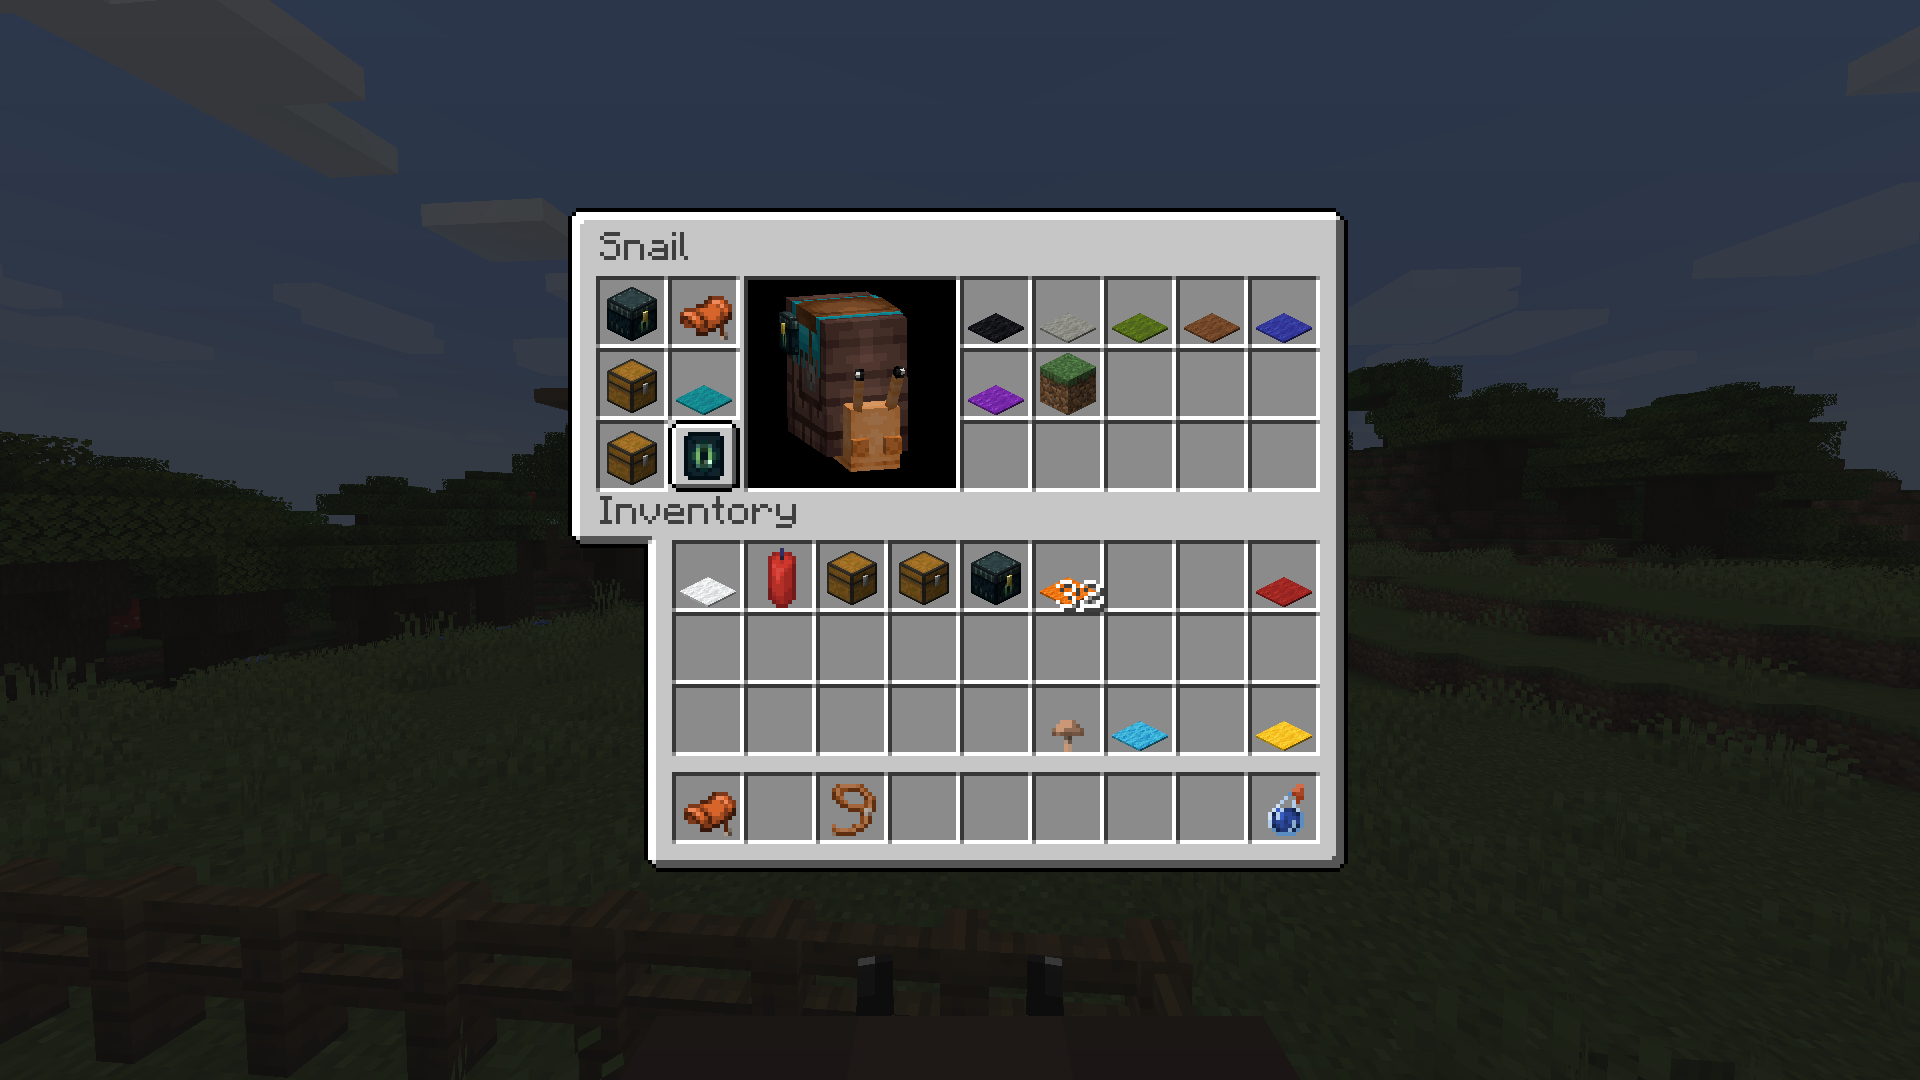
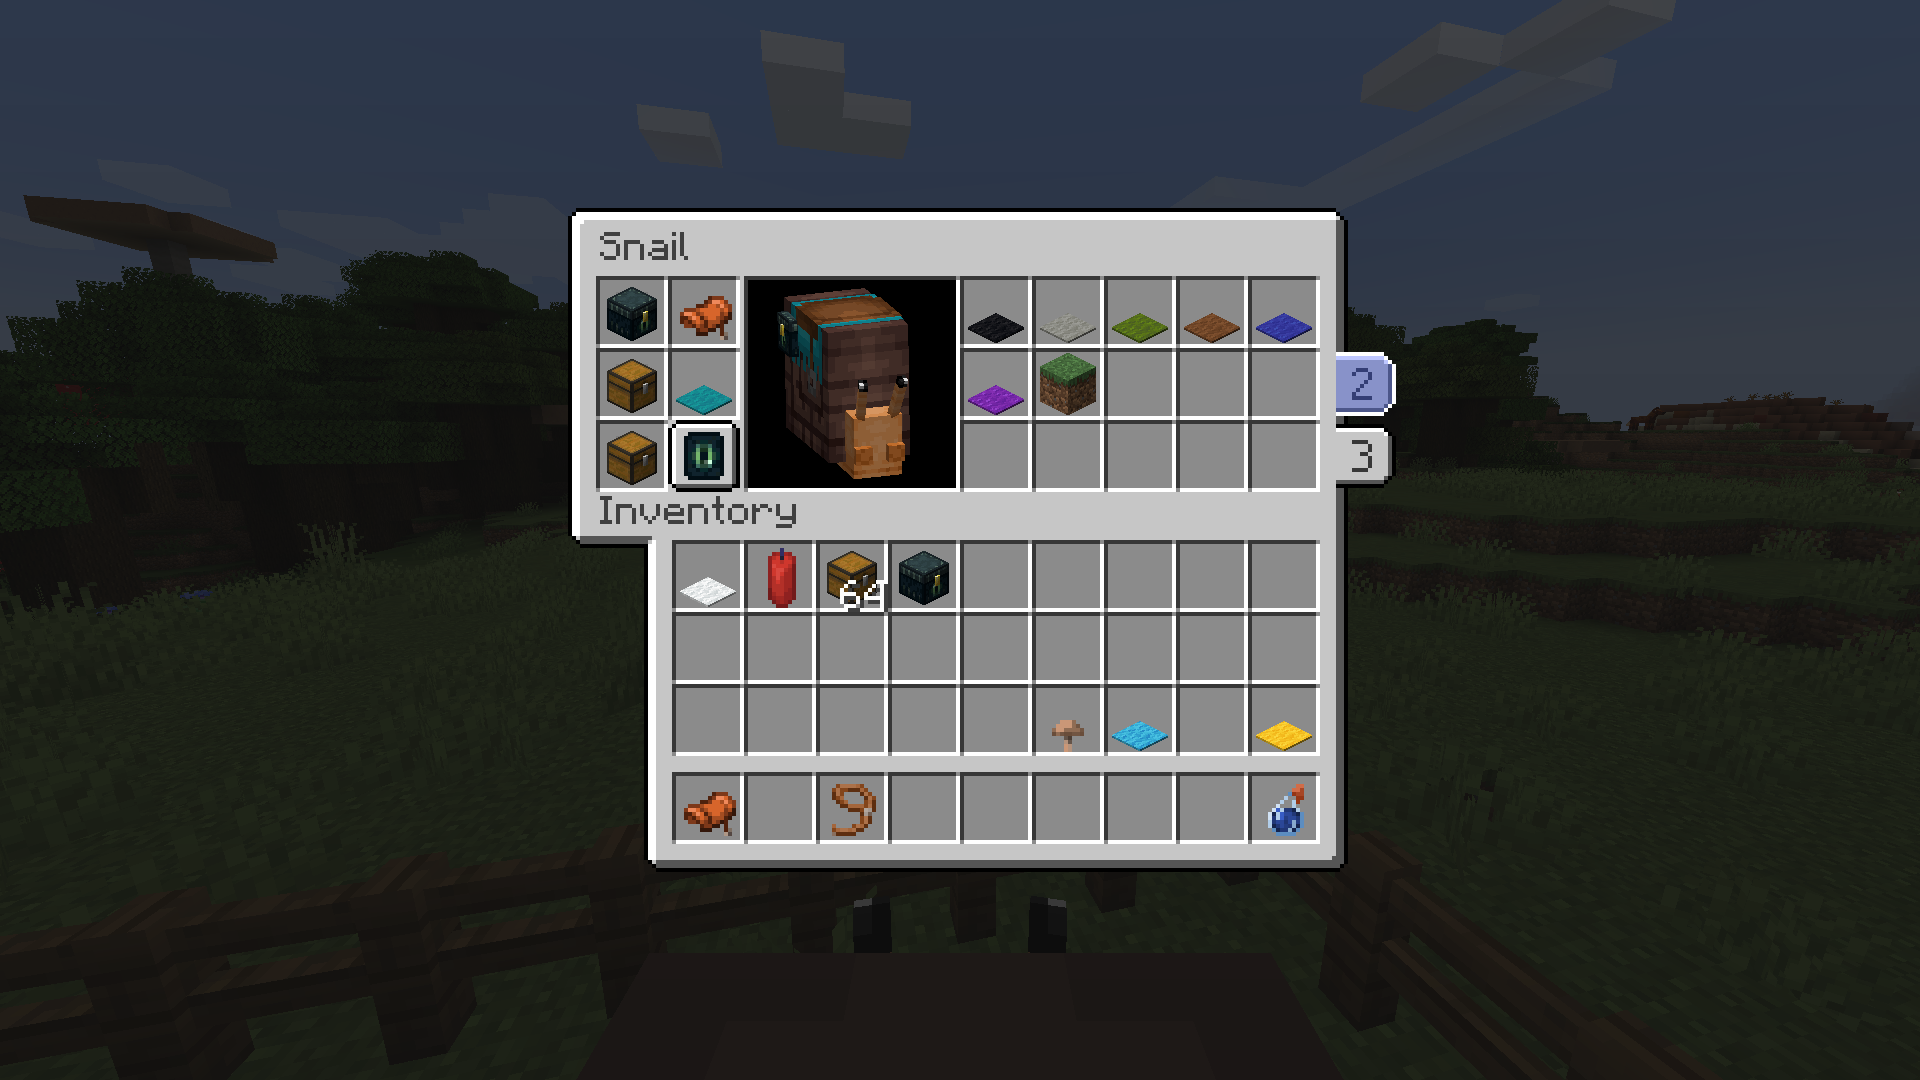
Fix snail collision box and improve inventory accessibility.

diff --git a/src/main/java/dev/lambdaurora/lovely_snails/client/screen/SnailInventoryScreen.java b/src/main/java/dev/lambdaurora/lovely_snails/client/screen/SnailInventoryScreen.java
@@ -43,7 +43,7 @@ import net.minecraft.util.math.MathHelper;
  * Represents the snail inventory screen.
  *
  * @author LambdAurora
- * @version 1.0.0
+ * @version 1.0.3
  * @since 1.0.0
  */
 @Environment(EnvType.CLIENT)
@@ -53,6 +53,7 @@ public class SnailInventoryScreen extends HandledScreen<SnailScreenHandler> {
     private float mouseX;
     private float mouseY;
     private EnderChestButton enderChestButton;
+    private PageButton[] pageButtons = new PageButton[3];
 
     public SnailInventoryScreen(SnailScreenHandler handler, PlayerInventory inventory, Text title) {
         super(handler, inventory, handler.snail().getDisplayName());
@@ -60,34 +61,51 @@ public class SnailInventoryScreen extends HandledScreen<SnailScreenHandler> {
         this.entity = handler.snail();
     }
 
-    private void clearEnderChestListener() {
+    private void clearListeners() {
         if (this.enderChestButton != null) {
             this.getScreenHandler().getInventory().removeListener(this.enderChestButton);
         }
         this.enderChestButton = null;
+
+        for (int page = 0; page < 3; page++) {
+            if (this.pageButtons[page] != null) {
+                this.getScreenHandler().getInventory().removeListener(this.pageButtons[page]);
+                this.getScreenHandler().removePageChangeListener(this.pageButtons[page]);
+            }
+
+            this.pageButtons[page] = null;
+        }
     }
 
     @Override
     protected void init() {
         super.init();
-        this.clearEnderChestListener();
+        this.clearListeners();
 
         int x = (this.width - this.backgroundWidth) / 2;
         int y = (this.height - this.backgroundHeight) / 2;
         this.addDrawableChild(this.enderChestButton = new EnderChestButton(x + 7 + 18, y + 35 + 18));
         this.getScreenHandler().getInventory().addListener(this.enderChestButton);
+
+        int buttonX = x + this.backgroundWidth - 3;
+        int buttonY = y + 17;
+        for (int page = 0; page < 3; page++) {
+            this.addDrawableChild(this.pageButtons[page] = new PageButton(buttonX, buttonY, page));
+            this.getScreenHandler().getInventory().addListener(this.pageButtons[page]);
+            this.getScreenHandler().addPageChangeListener(this.pageButtons[page]);
+        }
     }
 
     @Override
     public void removed() {
         super.removed();
-        this.clearEnderChestListener();
+        this.clearListeners();
     }
 
     @Override
     public void onClose() {
         super.onClose();
-        this.clearEnderChestListener();
+        this.clearListeners();
     }
 
     /* Input */
@@ -178,6 +196,33 @@ public class SnailInventoryScreen extends HandledScreen<SnailScreenHandler> {
         @Override
         public void onInventoryChanged(Inventory sender) {
             this.visible = this.active = SnailInventoryScreen.this.getScreenHandler().hasEnderChest();
+        }
+    }
+
+    private class PageButton extends TexturedButtonWidget implements InventoryChangedListener, SnailScreenHandler.InventoryPageChangeListener {
+        private final int page;
+
+        public PageButton(int x, int y, int page) {
+            super(x, y + page * 18 + 1, 15, 16, 211 + page * 15, 0, 16, TEXTURE,
+                    256, 256,
+                    btn -> {
+                        SnailInventoryScreen.this.getScreenHandler().requestStoragePage(page);
+                    });
+            this.page = page;
+
+            this.visible = SnailInventoryScreen.this.getScreenHandler().hasChest(this.page);
+            this.onCurrentPageSet(SnailInventoryScreen.this.getScreenHandler().getCurrentStoragePage());
+        }
+
+        @Override
+        public void onInventoryChanged(Inventory sender) {
+            this.visible = SnailInventoryScreen.this.getScreenHandler().hasChest(page);
+        }
+
+        @Override
+        public void onCurrentPageSet(int page) {
+            this.active = this.page != page;
+            this.setFocused(this.page == page);
         }
     }
 }

diff --git a/src/main/java/dev/lambdaurora/lovely_snails/entity/SnailEntity.java b/src/main/java/dev/lambdaurora/lovely_snails/entity/SnailEntity.java
@@ -70,6 +70,7 @@ import net.minecraft.util.Arm;
 import net.minecraft.util.DyeColor;
 import net.minecraft.util.Hand;
 import net.minecraft.util.math.BlockPos;
+import net.minecraft.util.math.Box;
 import net.minecraft.util.math.Direction;
 import net.minecraft.util.math.Vec3d;
 import net.minecraft.world.*;
@@ -83,7 +84,7 @@ import java.util.function.Predicate;
  * Represents the snail entity.
  *
  * @author LambdAurora
- * @version 1.0.0
+ * @version 1.0.3
  * @since 1.0.0
  */
 public class SnailEntity extends TameableEntity implements InventoryChangedListener, Saddleable {
@@ -192,8 +193,27 @@ public class SnailEntity extends TameableEntity implements InventoryChangedListe
      * @param baseSatisfaction the base satisfaction amount
      */
     public void satisfies(int baseSatisfaction) {
-        this.setSatisfaction(this.getSatisfaction() + baseSatisfaction + this.random.nextInt(10));
-        this.putInteractionOnCooldown();
+        if (this.isBaby()) {
+            this.putInteractionOnCooldown();
+            int newSatisfaction = this.getSatisfaction() + baseSatisfaction + this.random.nextInt(10);
+
+            if (newSatisfaction >= 0) {
+                var adultDimensions = this.getType().getDimensions();
+                float width = adultDimensions.width * .8f;
+                float eyeHeight = this.getEyeHeight(EntityPose.STANDING, adultDimensions);
+                var box = Box.of(new Vec3d(this.getX(), this.getY() + eyeHeight, this.getZ()), width, 1.0E-6, width);
+
+                // Adult form will suffocate, so we must prevent the growth until the player moves the snail.
+                boolean willSuffocate = this.world.getBlockCollisions(this, box, (state, pos) -> state.shouldSuffocate(this.world, pos))
+                        .findAny().isPresent();
+                if (willSuffocate) {
+                    this.world.sendEntityStatus(this, (byte) 10);
+                    return;
+                }
+            }
+
+            this.setSatisfaction(newSatisfaction);
+        }
 
         this.world.sendEntityStatus(this, (byte) 8);
     }
@@ -264,6 +284,15 @@ public class SnailEntity extends TameableEntity implements InventoryChangedListe
                 double yOffset = this.random.nextGaussian() * 0.02;
                 double zOffset = this.random.nextGaussian() * 0.02;
                 this.world.addParticle(ParticleTypes.ANGRY_VILLAGER,
+                        this.getParticleX(1.0), this.getRandomBodyY() + 0.5, this.getParticleZ(1.0),
+                        xOffset, yOffset, zOffset);
+            }
+        } else if (status == 10) {
+            for (int i = 0; i < 7; ++i) {
+                double xOffset = this.random.nextGaussian() * 0.02;
+                double yOffset = this.random.nextGaussian() * 0.02;
+                double zOffset = this.random.nextGaussian() * 0.02;
+                this.world.addParticle(this.random.nextBoolean() ? ParticleTypes.ANGRY_VILLAGER : ParticleTypes.SMOKE,
                         this.getParticleX(1.0), this.getRandomBodyY() + 0.5, this.getParticleZ(1.0),
                         xOffset, yOffset, zOffset);
             }
@@ -770,6 +799,7 @@ public class SnailEntity extends TameableEntity implements InventoryChangedListe
     public void setBaby(boolean baby) {
         var wasBaby = this.dataTracker.get(CHILD);
         this.dataTracker.set(CHILD, baby);
+        this.calculateDimensions();
 
         if (wasBaby && !baby && !this.reading) {
             this.onGrowUp();
@@ -782,7 +812,7 @@ public class SnailEntity extends TameableEntity implements InventoryChangedListe
     public PassiveEntity createChild(ServerWorld world, PassiveEntity otherParent) {
         var child = LovelySnailsRegistry.SNAIL_ENTITY_TYPE.create(world);
 
-        if (otherParent instanceof SnailEntity otherSnail) {
+        if (otherParent instanceof SnailEntity) {
             if (this.isTamed()) {
                 child.setOwnerUuid(this.getOwnerUuid());
                 child.setTamed(true);

diff --git a/src/main/java/dev/lambdaurora/lovely_snails/screen/SnailScreenHandler.java b/src/main/java/dev/lambdaurora/lovely_snails/screen/SnailScreenHandler.java
@@ -36,10 +36,14 @@ import net.minecraft.screen.ScreenHandler;
 import net.minecraft.screen.slot.Slot;
 import net.minecraft.server.network.ServerPlayerEntity;
 
+import java.util.ArrayList;
+import java.util.List;
+
 public class SnailScreenHandler extends ScreenHandler implements InventoryChangedListener {
     private final PlayerEntity player;
     private final SimpleInventory inventory;
     private final SnailEntity entity;
+    private final List<InventoryPageChangeListener> pageChangeListeners = new ArrayList<>();
     private int currentStoragePage;
 
     public SnailScreenHandler(int syncId, PlayerInventory playerInventory, PacketByteBuf buf) {
@@ -171,6 +175,10 @@ public class SnailScreenHandler extends ScreenHandler implements InventoryChange
             buffer.writeByte(page);
             ServerPlayNetworking.send(serverPlayerEntity, LovelySnailsRegistry.SNAIL_SET_STORAGE_PAGE, buffer);
         }
+
+        for (var listener : this.pageChangeListeners) {
+            listener.onCurrentPageSet(page);
+        }
     }
 
     /**
@@ -199,6 +207,14 @@ public class SnailScreenHandler extends ScreenHandler implements InventoryChange
             }
         }
         return 0;
+    }
+
+    public void addPageChangeListener(InventoryPageChangeListener listener) {
+        this.pageChangeListeners.add(listener);
+    }
+
+    public void removePageChangeListener(InventoryPageChangeListener listener) {
+        this.pageChangeListeners.remove(listener);
     }
 
     @Override
@@ -308,7 +324,15 @@ public class SnailScreenHandler extends ScreenHandler implements InventoryChange
                 }
                 default -> getOpeningStoragePage(this.getInventory());
             };
+
+            for (var listener : this.pageChangeListeners) {
+                listener.onCurrentPageSet(this.currentStoragePage);
+            }
         }
+    }
+
+    public interface InventoryPageChangeListener {
+        void onCurrentPageSet(int page);
     }
 
     private static class SaddleSlot extends Slot {

diff --git a/CHANGELOG.md b/CHANGELOG.md
@@ -19,5 +19,10 @@
 
 ### 1.0.2
 
-- Fix shift-click behavior in snail inventory.
-  - Fix chests being transferable to baby snails.
+- Fixed shift-click behavior in snail inventory.
+  - Fixed chests being transferable to baby snails.
+
+### 1.0.3
+
+- Added inventory page buttons to improve accessibility.
+- Fixed baby snails collision box.
